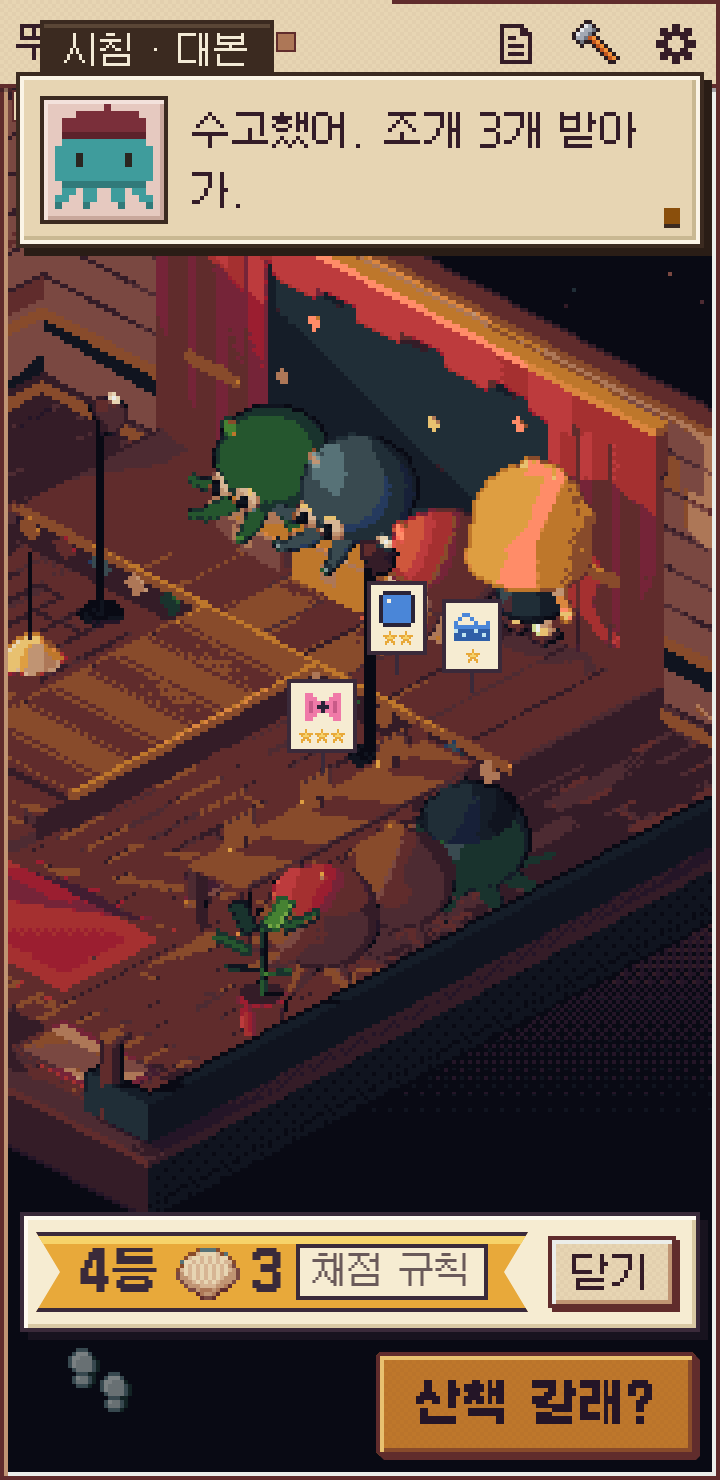
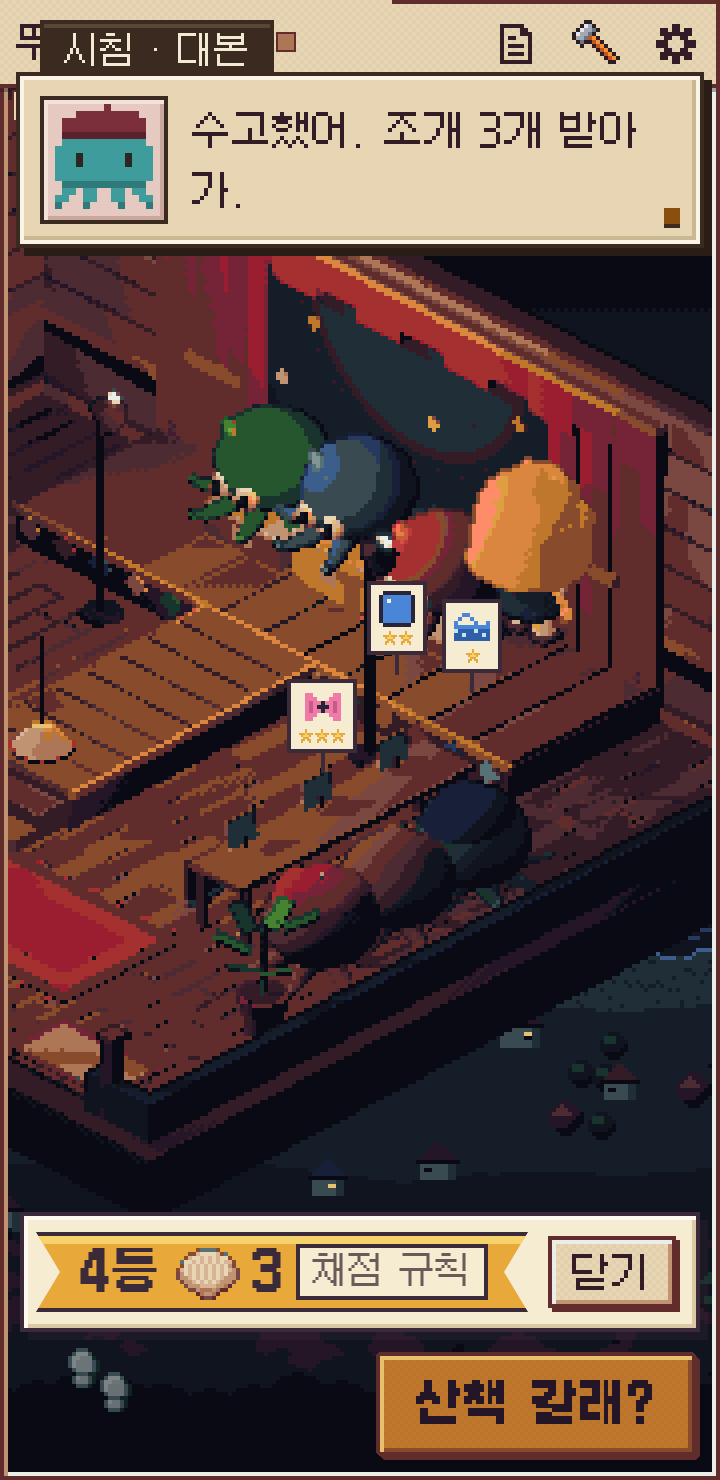
콘테스트 점검 고침: 글꼴을 끈 설정에서도 16 px 이상 · 조개 칩은 결과가 보일 때 오름 · 진짜 옷장 · 공연장으로 검사
Claude-Session: https://claude.ai/code/session_01Tq2y4SbbcvooKJ5ykn66Da

diff --git a/tools/test-contest-live.js b/tools/test-contest-live.js
@@ -49,7 +49,7 @@ function SCENE_STUB() {
   var sc = APP.scene; window.__sc = [];
   sc.stage = function () { return { wait: [1, 1], path: [[1, 0], [2, 0], [3, 0], [4, 0]], judges: [[1, 3, 0], [2, 3, 0], [3, 3, 0]], podium: [[1, 5, 0.6], [2, 5, 0.48], [3, 5, 0.38], [4, 5, 0.24]], rivals: [[0, 6], [1, 6], [2, 6]], poster: [0.5, 0], y: 0 }; };
   sc.project = function (x, y, z) { return { x: 40 + x * 64, y: 330 - z * 30 - y * 40 }; };
-  sc.area = function () { return 'plaza'; }; sc.inRoom = function () { return null; };
+  sc.area = function () { return 'plaza'; }; sc.inRoom = function () { return null; }; sc.roomReg = {};   /* 공연장이 없는 판 (있는 판은 아래에서 따로) */
   sc.stageDress = function (on) { window.__sc.push(['dress', !!on]); };
   sc.npcSet = function (l) { window.__sc.push(['set', l.map(function (n) { return n.id; }).join(',')]); };
   sc.npcPlace = function (id, x, z) { window.__sc.push(['place', id, x, z]); };
@@ -58,6 +58,7 @@ function SCENE_STUB() {
   sc.playerPose = function (n) { window.__sc.push(['pose', n]); return new Promise(function (r) { setTimeout(r, 150); }); };
   sc.playerPlace = function (x, z, y) { window.__sc.push(['me', x, z, y]); };
 }
+function chip(page) { return page.evaluate(function () { var b = document.getElementById('btn-bag'), n = b && b.querySelector('.shell-n'); return n ? +n.textContent : null; }); }
 function calls(page, kind) { return page.evaluate(function (k) { return window.__sc.filter(function (c) { return c[0] === k; }); }, kind); }
 function wcard(page) { return page.evaluate(function () { var c = document.getElementById('ct-wcard'); return c ? { kind: c.dataset.kind, inScene: !!c.closest('#scene'), dialog: !!c.closest('dialog'), text: c.innerText, go: !!document.getElementById('ct-w-go'), avoid: c.hasAttribute('data-npc-avoid') } : null; }); }
 async function open(ctx, o) {
@@ -113,12 +114,12 @@ async function main() {
   console.log('A 옷 목록 없음 · 2D');
   ctx = await context(browser, SAT);
   page = await open(ctx, { stub: false });
-  r = await page.evaluate(function () { return { ret: APP.openContest(), open: document.getElementById('contest-sheet').open, has: typeof CONTEST === 'object' }; });
+  r = await page.evaluate(function () { delete APP.wardrobe; delete APP.wearing; return { ret: APP.openContest(), open: document.getElementById('contest-sheet').open, has: typeof CONTEST === 'object' }; });
   check(r.has && r.ret === false && r.open === false, '옷 목록 (APP.wardrobe) 이 없으면 안 열림');
   check(await page.evaluate(function () { return document.getElementById('btn-plaza-stage') === null || true; }), '무대 단추가 없어도 던지지 않음');
   r = await page.evaluate(function () {
     var out = [], shapes = [function () { throw new Error('x'); }, function () { return null; }, function () { return { cats: [] }; }, function () { return { cats: [{ key: 'outfit', items: [] }] }; }, function () { return { cats: [{ key: 'outfit', items: [{ id: 'a', worn: true }] }] }; }];
-    shapes.forEach(function (f) { APP.wardrobe = f; out.push(APP.openContest()); APP.contestEnter(); });
+    delete APP.wearing; shapes.forEach(function (f) { APP.wardrobe = f; out.push(APP.openContest()); APP.contestEnter(); });
     delete APP.wardrobe; return { out: out, entry: CONTEST.today(APP.state.user, window.__ppolTest.today), open: document.getElementById('contest-sheet').open };
   });
   check(r.out.every(function (x) { return x === false; }) && r.entry === null && !r.open, '깨진 · 빈 · 꼬리표 없는 옷 목록이면 안 열리고 안 나감');
@@ -173,6 +174,7 @@ async function main() {
   check(r.rule, "쇼 중에도 '채점 규칙' 꼬리표");
   e = await entry(page, SAT);
   check(e && e.paid === true && (await shells(page)) === s0 + e.shells && [12, 8, 5, 3][e.rank - 1] === e.shells, '나가는 순간 조개 한 번 (' + (e && e.rank) + '등 · ' + (e && e.shells) + ')');
+  check((await chip(page)) === null || (await chip(page)) === s0, '쇼 동안 조개 칩은 아직 예전 수 (' + (await chip(page)) + ')');
   var seen = {}, t0 = Date.now(), frames = 0;
   while (Date.now() - t0 < 20000) {
     r = await page.evaluate(function () { var s = APP.contestStage; return s ? s.stage + s.n : null; });
@@ -191,6 +193,7 @@ async function main() {
     return { pods: b.querySelectorAll('.ct-pod').length, me: b.querySelectorAll('.ct-pod.me').length, cards: b.querySelectorAll('.ct-judge').length, stars: Array.prototype.map.call(b.querySelectorAll('.ct-stars'), function (s) { return s.querySelectorAll('canvas').length; }),
       amt: b.querySelector('.ct-line .shell-n').textContent, close: !document.getElementById('contest-close').hidden, log: Array.prototype.map.call(document.querySelectorAll('#log .ct-row'), function (x) { return x.querySelector('.ltool').textContent + ' ' + x.querySelector('.ltext').textContent; }) };
   });
+  check((await chip(page)) === null || (await chip(page)) === s0 + e.shells, '결과가 보이면 조개 칩이 새 수');
   check(r.pods === 4 && r.me === 1 && r.cards === 3 && r.stars.every(function (n) { return n >= 1 && n <= 3; }) && r.close, '단상 넷 (나 하나) · 심사 카드 셋 · 별 1~3');
   check(+r.amt === e.shells, '결과의 조개 수 = 받은 수');
   check(r.log.length === 1 && r.log[0] === '콘테스트 ' + e.rank + '등 · 조개 ' + e.shells, '오늘 기록 줄: ' + JSON.stringify(r.log));
@@ -285,6 +288,7 @@ async function main() {
     });
     check(r.n > 8 && r.bad.length === 0, sizes[i].join('x') + ': 그림 ' + r.n + '개 모두 기기 픽셀 정수 배 ' + JSON.stringify(r.bad));
     check(!r.wide && r.inView, sizes[i].join('x') + ': 옆으로 넘치지 않음');
+    if (sizes[i][0] === 360) { var cl = await page.evaluate(function () { var c = document.getElementById('contest-close').getBoundingClientRect(); return [Math.round(c.bottom), window.innerHeight]; }); check(cl[0] <= cl[1], '360x740 결과 시트: 닫기가 화면 안 ' + JSON.stringify(cl)); }
     check(r.fs.every(function (f) { return f >= (sizes[i][2] >= 2 ? 16 : 12); }), sizes[i].join('x') + ': 글자가 집 크기 (폰 16px 이상) ' + JSON.stringify(r.fs));
     check(page._errs.length === 0, '오류 없음');
     await ctx.close();
@@ -318,6 +322,7 @@ async function main() {
   await page.waitForTimeout(700); await page.click('#ct-w-go');
   e = await entry(page, SAT);
   check(e && e.paid && (await shells(page)) === s0 + e.shells && !!(await page.evaluate(function () { return APP.contestLive; })), '나가기 → 조개 한 번 · 쇼 시작');
+  check((await chip(page)) === null || (await chip(page)) === s0, '장면 쇼 동안 조개 칩은 아직 예전 수');
   check(await page.evaluate(function () { return !!document.querySelector('.ct-whud .ct-rule') && !!document.getElementById('ct-w-skip') && !document.querySelector('dialog[open]'); }), "쇼 중: 넘기기 · '채점 규칙' · 시트 없음");
   seen = {}; t0 = Date.now();
   while (Date.now() - t0 < 30000) {
@@ -396,6 +401,22 @@ async function main() {
   await page.evaluate(function () { delete APP.scene.stage; APP.contestStageTap(); }); await page.waitForTimeout(300);
   check(await page.evaluate(function () { return typeof APP.scene.stage !== 'function' ? document.getElementById('contest-sheet').open && !document.getElementById('ct-wcard') : true; }), '무대 함수가 없으면: 시트가 열림');
   check(page._errs.length === 0, '오류 없음');
+  await ctx.close();
+
+  /* 픽셀 글꼴을 끈 설정: 시트 · 장면 카드의 글자가 모두 16 px 이상 */
+  rec = REC(); rec.settings.pixelFont = false;
+  ctx = await context(browser, SAT, rec);
+  page = await open(ctx); await page.evaluate(SCENE_STUB);
+  function small() { return page.evaluate(function () { var bad = []; ['contest-sheet', 'ct-world'].forEach(function (id) { var root = document.getElementById(id); if (!root) return; var w = document.createTreeWalker(root, NodeFilter.SHOW_TEXT); while (w.nextNode()) { var t = w.currentNode, el = t.parentElement; if (!t.nodeValue.trim() || !el || el.closest('.sr-only')) continue; var r = el.getBoundingClientRect(); if (r.width < 1 || getComputedStyle(el).visibility === 'hidden') continue; var f = parseFloat(getComputedStyle(el).fontSize); if (f < 16) bad.push(t.nodeValue.trim().slice(0, 8) + ' ' + f); } }); return { font: document.documentElement.dataset.font || '', bad: bad }; }); }
+  await page.evaluate(function () { APP.openContest(); }); r = await small();
+  check(r.font !== 'pixel' && r.bad.length === 0, '픽셀 글꼴 끔 · 시트 (나가기 전): 16 px 아래 글자 없음 ' + JSON.stringify(r));
+  await page.evaluate(function () { APP.contestEnter(); APP.contestSkip(); }); r = await small();
+  check(r.bad.length === 0, '픽셀 글꼴 끔 · 결과 시트: 16 px 아래 글자 없음 ' + JSON.stringify(r.bad));
+  r = await page.evaluate(function () { var c = document.getElementById('contest-close').getBoundingClientRect(); return [Math.round(c.top), Math.round(c.bottom), window.innerHeight]; });
+  check(r[1] <= r[2] && r[0] >= 0, '픽셀 글꼴 끔 · 360x740 결과 시트: 닫기가 화면 안 ' + JSON.stringify(r));
+  await page.evaluate(function () { document.getElementById('contest-sheet').close(); APP.contestStageTap(); });
+  await page.waitForFunction(function () { return !!document.getElementById('ct-wcard'); }, null, { timeout: 8000 }); r = await small();
+  check(r.bad.length === 0, '픽셀 글꼴 끔 · 장면 결과 카드: 16 px 아래 글자 없음 ' + JSON.stringify(r.bad));
   await ctx.close();
 
   /* 진짜 폰 배율 2.625 (에뮬레이션은 이 배율에서 어긋난다 — 창 자체를 그 배율로) */

diff --git a/js/app.js b/js/app.js
@@ -7006,7 +7006,7 @@ var APP = (function () {
     var res = CT.enter(u, dk, ctWorn(), { catalog: ctCats(), salt: S.octopus.born || 0, at: Date.now() });
     if (!res) return null;
     var e = res.entry;
-    if (!e.paid) { e.paid = true; u.shells += CT.shellsOf(e); ctMine.push({ dk: dk, entry: e, born: S.octopus.born || 0, t: performance.now() }); save(); renderBagChip(); ctLogSync(); ctBand(); ctTell = e; }   /* 조개는 여기 한 번만 (주간 선물과 같은 방식) */
+    if (!e.paid) { e.paid = true; u.shells += CT.shellsOf(e); ctMine.push({ dk: dk, entry: e, born: S.octopus.born || 0, t: performance.now() }); save(); ctTell = e; }   /* 조개는 여기 한 번만 (주간 선물과 같은 방식). 보이는 수 · 기록 줄은 결과가 보일 때 (ctTold) — 쇼 전에 조개 칩이 먼저 뛰지 않게 */
     return { entry: e, replay: res.replay };
   }
   function ctEnter(ev) {
@@ -7018,7 +7018,7 @@ var APP = (function () {
     ctShow(res.entry);
   }
   function ctSay(key, vars) { var A = window.APP; if (A && typeof A.npcSay === 'function') { try { A.npcSay('clothes', key, vars); } catch (e) { console.warn('[contest] npcSay', e); } } }   /* 옷가게 문어의 대본 한 줄 (N 갈래의 말상자 · '대본' 표시 — 없으면 아무것도 안 띄운다) */
-  function ctTold() { var t = ctTell; ctTell = null; if (t) ctSay('contest.result', { rank: t.rank, shells: CT.shellsOf(t) }); }   /* 결과가 보일 때 한 번 */
+  function ctTold() { renderBagChip(); ctBand(); ctLogSync(); var t = ctTell; ctTell = null; if (t) ctSay('contest.result', { rank: t.rank, shells: CT.shellsOf(t) }); }   /* 결과가 보일 때: 조개 칩 · 지갑 · 기록 줄을 새로 · 대본 한 번 */   /* 결과가 보일 때 한 번 */
   function ctFocusLine() { var l = $('ct-line'); if (l) { try { l.focus({ preventScroll: true }); } catch (e) { l.focus(); } } }
   /* 쇼: 참가자 넷이 차례로 → 심사 카드 셋 → 점수 오름 → 단상 → 결과. 넘기기는 언제나 */
   function ctShow(e) {
@@ -7270,7 +7270,7 @@ var APP = (function () {
     ['btn-in-hall', 'btn-plaza-stage'].forEach(function (id) { var b = $(id); if (b) b.addEventListener('click', function () { if (ctHallMode()) { ctGoHall(); return; } if (id === 'btn-plaza-stage') ctStageTap(); }); });   /* 리드 결정: 공연장 문은 F 가 묶는다 */
     var rk = $('btn-hall-rack'); if (rk) rk.addEventListener('click', function () { openLook(); });
     var bd = $('btn-hall-board'); if (bd) bd.addEventListener('click', function () { var e = ctEntry(); if (e && ctLiveOk()) ctResultCard(e); else openContest(); });
-    document.addEventListener('ppol:room', function () { ctCardClear(); ctPlacClear(); if (ctL) { ctL.skip = true; ctL = null; } ctSceneKey = null; setTimeout(function () { ctSceneSync(true); }, 0); setTimeout(function () { ctSceneKey = null; ctSceneSync(true); }, 700); });   /* N 이 방을 바꿀 때 마을 문어를 다시 세우므로 한 번 더 */
+    document.addEventListener('ppol:room', function () { ctCardClear(); ctPlacClear(); if (ctL) { ctL.skip = true; ctL = null; ctTold(); } ctSceneKey = null; setTimeout(function () { ctSceneSync(true); }, 0); setTimeout(function () { ctSceneKey = null; ctSceneSync(true); }, 700); });   /* N 이 방을 바꿀 때 마을 문어를 다시 세우므로 한 번 더 */
     setInterval(function () { if (!document.hidden && !ctL) ctSceneSync(false); }, 1000);   /* 광장에 들어섬 · 날이 바뀜 · 다른 탭이 나감 */
     setTimeout(function () { ctSceneSync(true); }, 0);
   }

diff --git a/css/style.css b/css/style.css
@@ -2115,7 +2115,7 @@ button.lp-spk .cafe-pic { box-shadow: 0 0 0 2px var(--c-ink), 0 0 0 4px #e9a53a;
 #contest-body[data-view="result"] .ct-mine { flex: 0 0 auto; flex-direction: row; justify-content: center; align-items: center; gap: 16px; }
 #contest-body[data-view="result"] .ct-solo { flex: 0 0 auto; min-height: 0; align-self: auto; margin: 0; padding: 20px 20px 8px; }
 #contest-body[data-view="result"] .ct-solo::after { width: 56px; margin-left: -28px; }
-.contest-sheet .ct-closed { margin: 0 0 16px; text-align: center; font-size: 15px; font-weight: 700; color: var(--fg); }
+.contest-sheet .ct-closed { margin: 0 0 16px; text-align: center; font-size: 16px; font-weight: 700; color: var(--fg); }
 :root[data-font="pixel"] .contest-sheet .ct-closed { font-family: var(--f-ui); font-size: var(--fs-u20, 20px); line-height: 30px; }
 .ct-go { margin-bottom: 8px; }
 /* 결과 리본 (금빛 띠 · 양 끝 제비꼬리) */
@@ -2125,7 +2125,9 @@ button.lp-spk .cafe-pic { box-shadow: 0 0 0 2px var(--c-ink), 0 0 0 4px #e9a53a;
   clip-path: polygon(0 0, 100% 0, calc(100% - 12px) 50%, 100% 100%, 0 100%, 12px 50%); }
 .ct-place { font-size: 20px; }
 :root[data-font="pixel"] .ct-place, :root[data-font="pixel"] .ct-line .shell-amt { font-family: var(--f-ui); font-size: var(--fs-u24, 24px); line-height: 36px; }
-.ct-rule { font-size: 11px; font-weight: 500; color: #6a5a5a; padding: 0 6px; background: var(--ct-paper); box-shadow: 0 0 0 1px var(--ct-ink); white-space: nowrap; }
+/* 시스템 글꼴 (픽셀 글꼴 끔) 에서도 콘테스트 안의 글은 16 px 이상 (단추 · 조개 수 · 지갑 · 간판) — 픽셀 글꼴은 --fs-* 그대로 */
+:root:not([data-font="pixel"]) :is(.contest-sheet, .ct-world) :is(.btn, .shell-amt, .ct-purse, .ct-sign) { font-size: 16px; }
+.ct-rule { font-size: 16px; font-weight: 500; color: #6a5a5a; padding: 0 6px; background: var(--ct-paper); box-shadow: 0 0 0 1px var(--ct-ink); white-space: nowrap; }
 :root[data-font="pixel"] .ct-rule { font-family: var(--f-meta); font-size: var(--fs-m16, 16px); line-height: 24px; box-shadow: 0 0 0 2px var(--ct-ink); }
 /* 단상 (무대 위): 금 · 은 · 동 띠가 있는 계단, 4등은 낮은 발판 */
 .ct-podium { flex: 1 1 auto; min-height: 168px; display: flex; align-items: flex-end; justify-content: center; gap: 4px; margin: 0 -14px 16px; padding: 24px 6px 0; }
